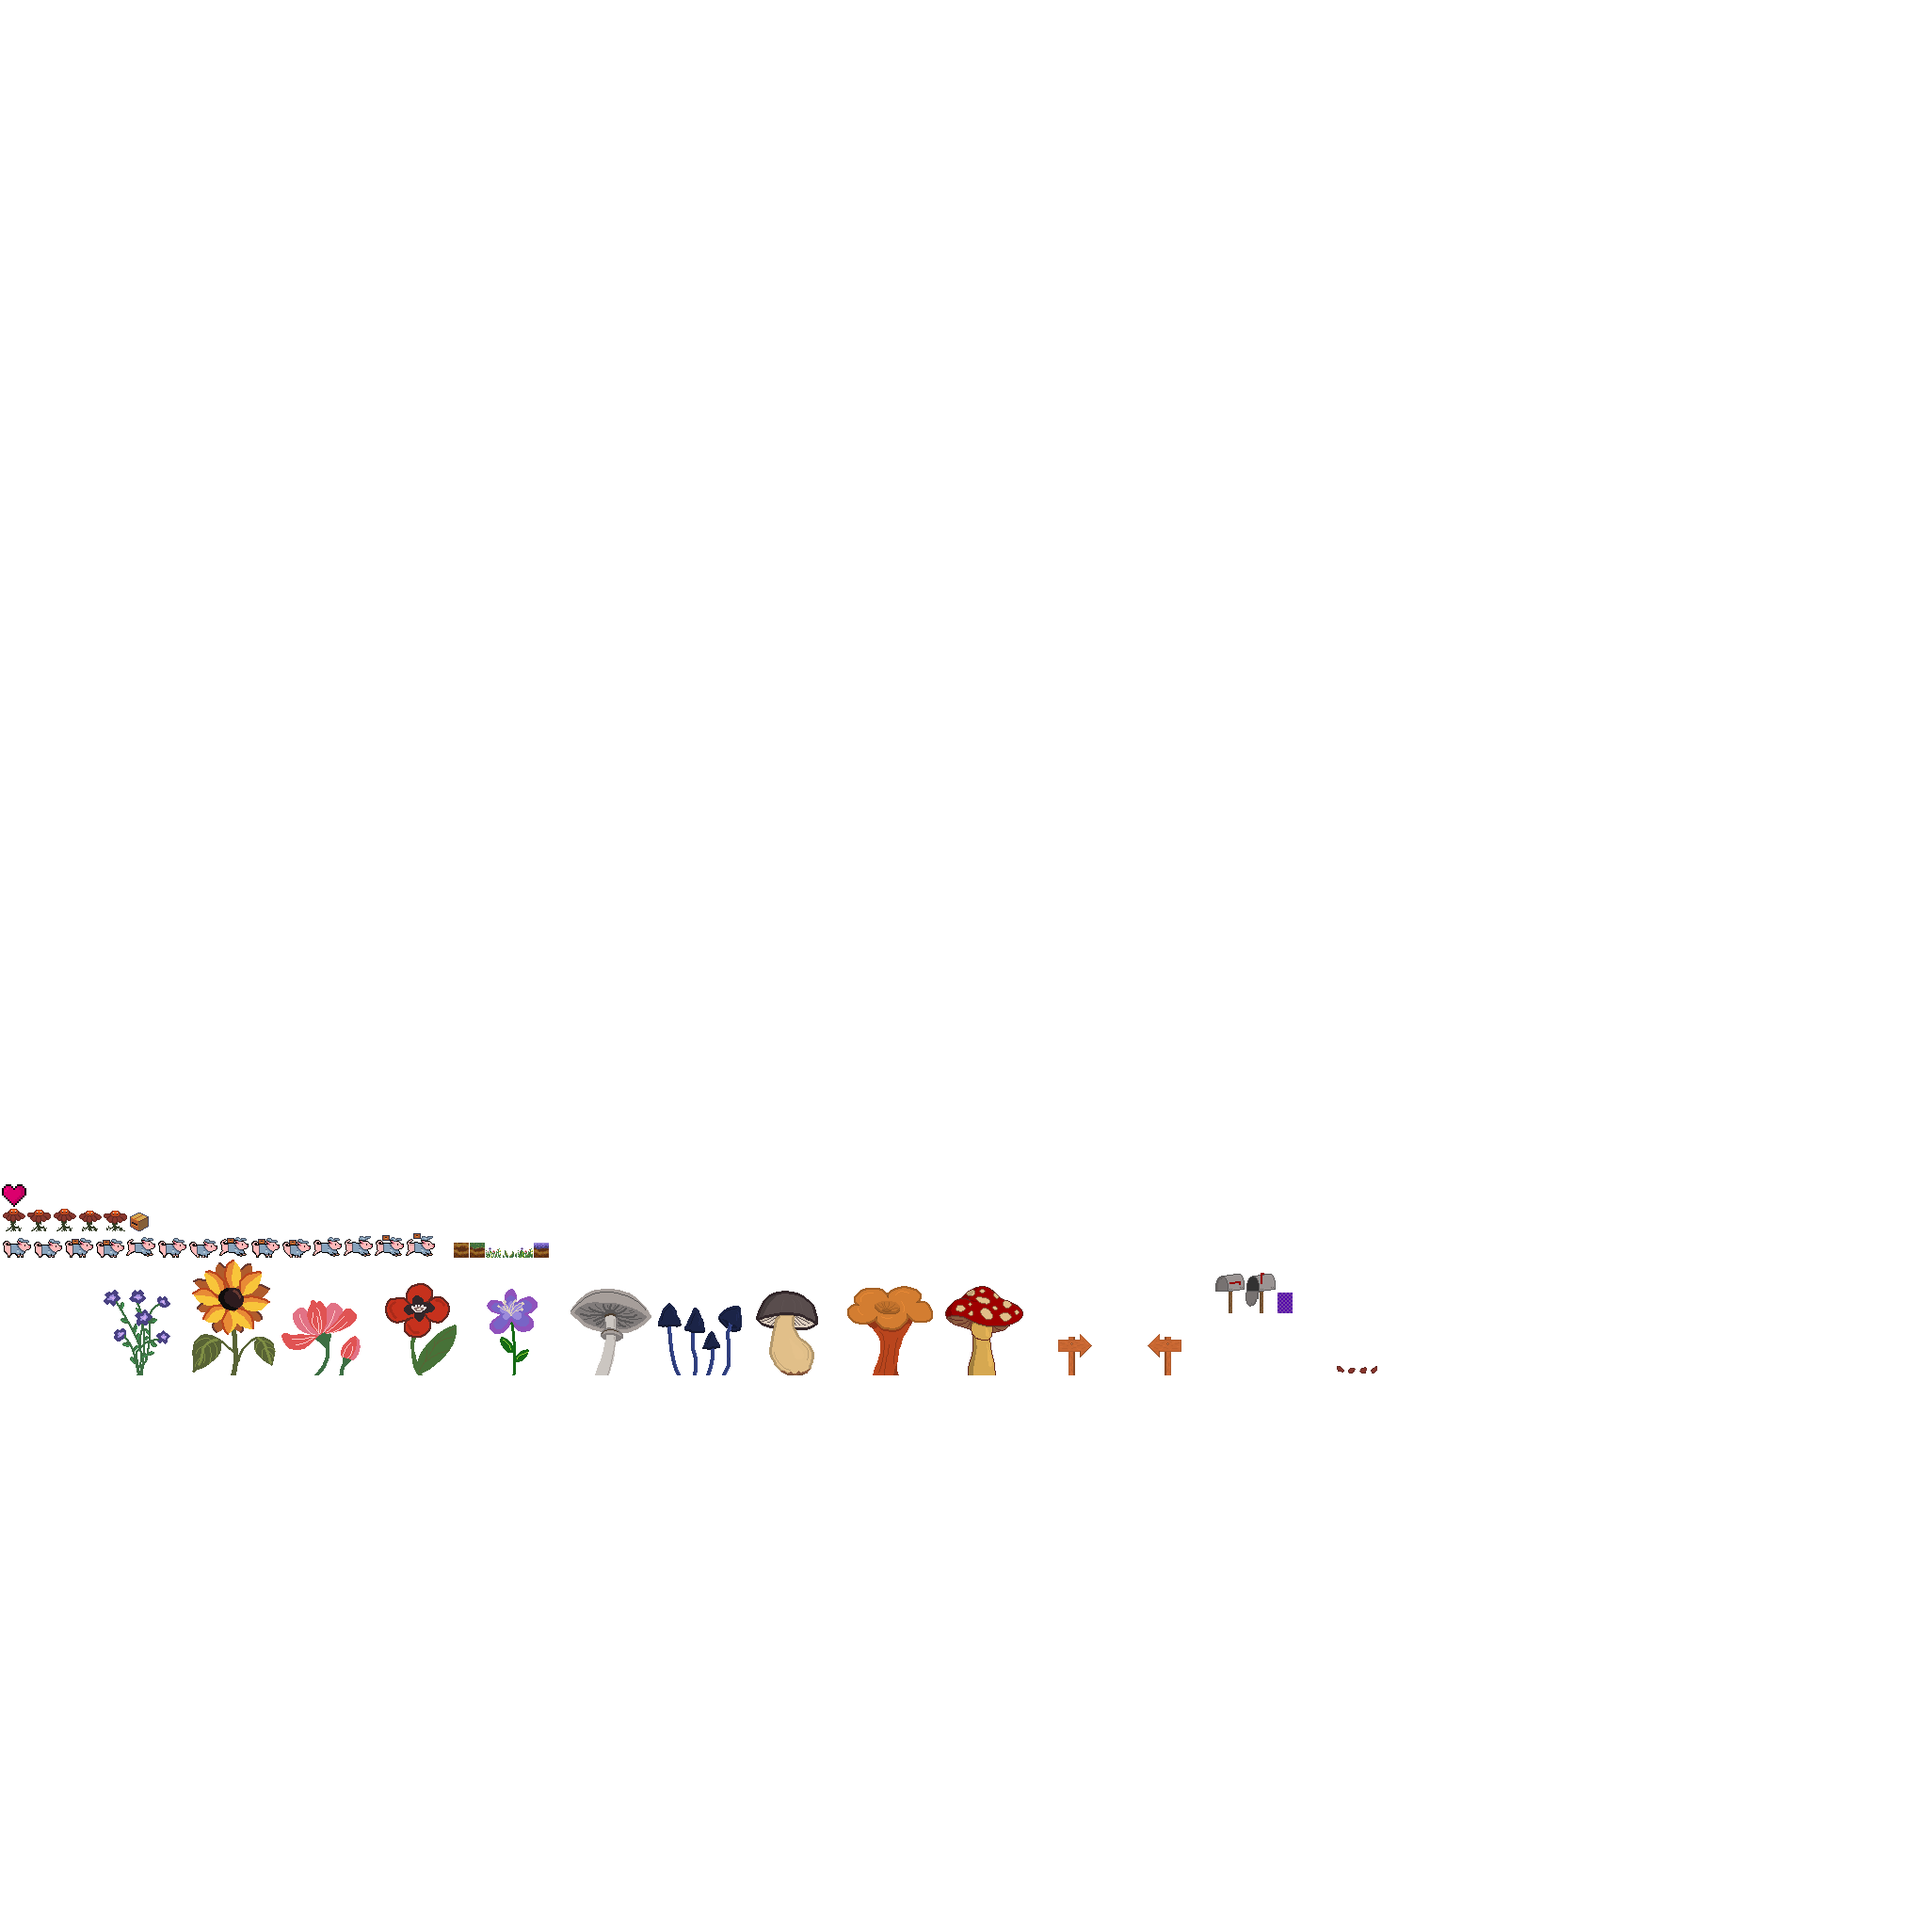
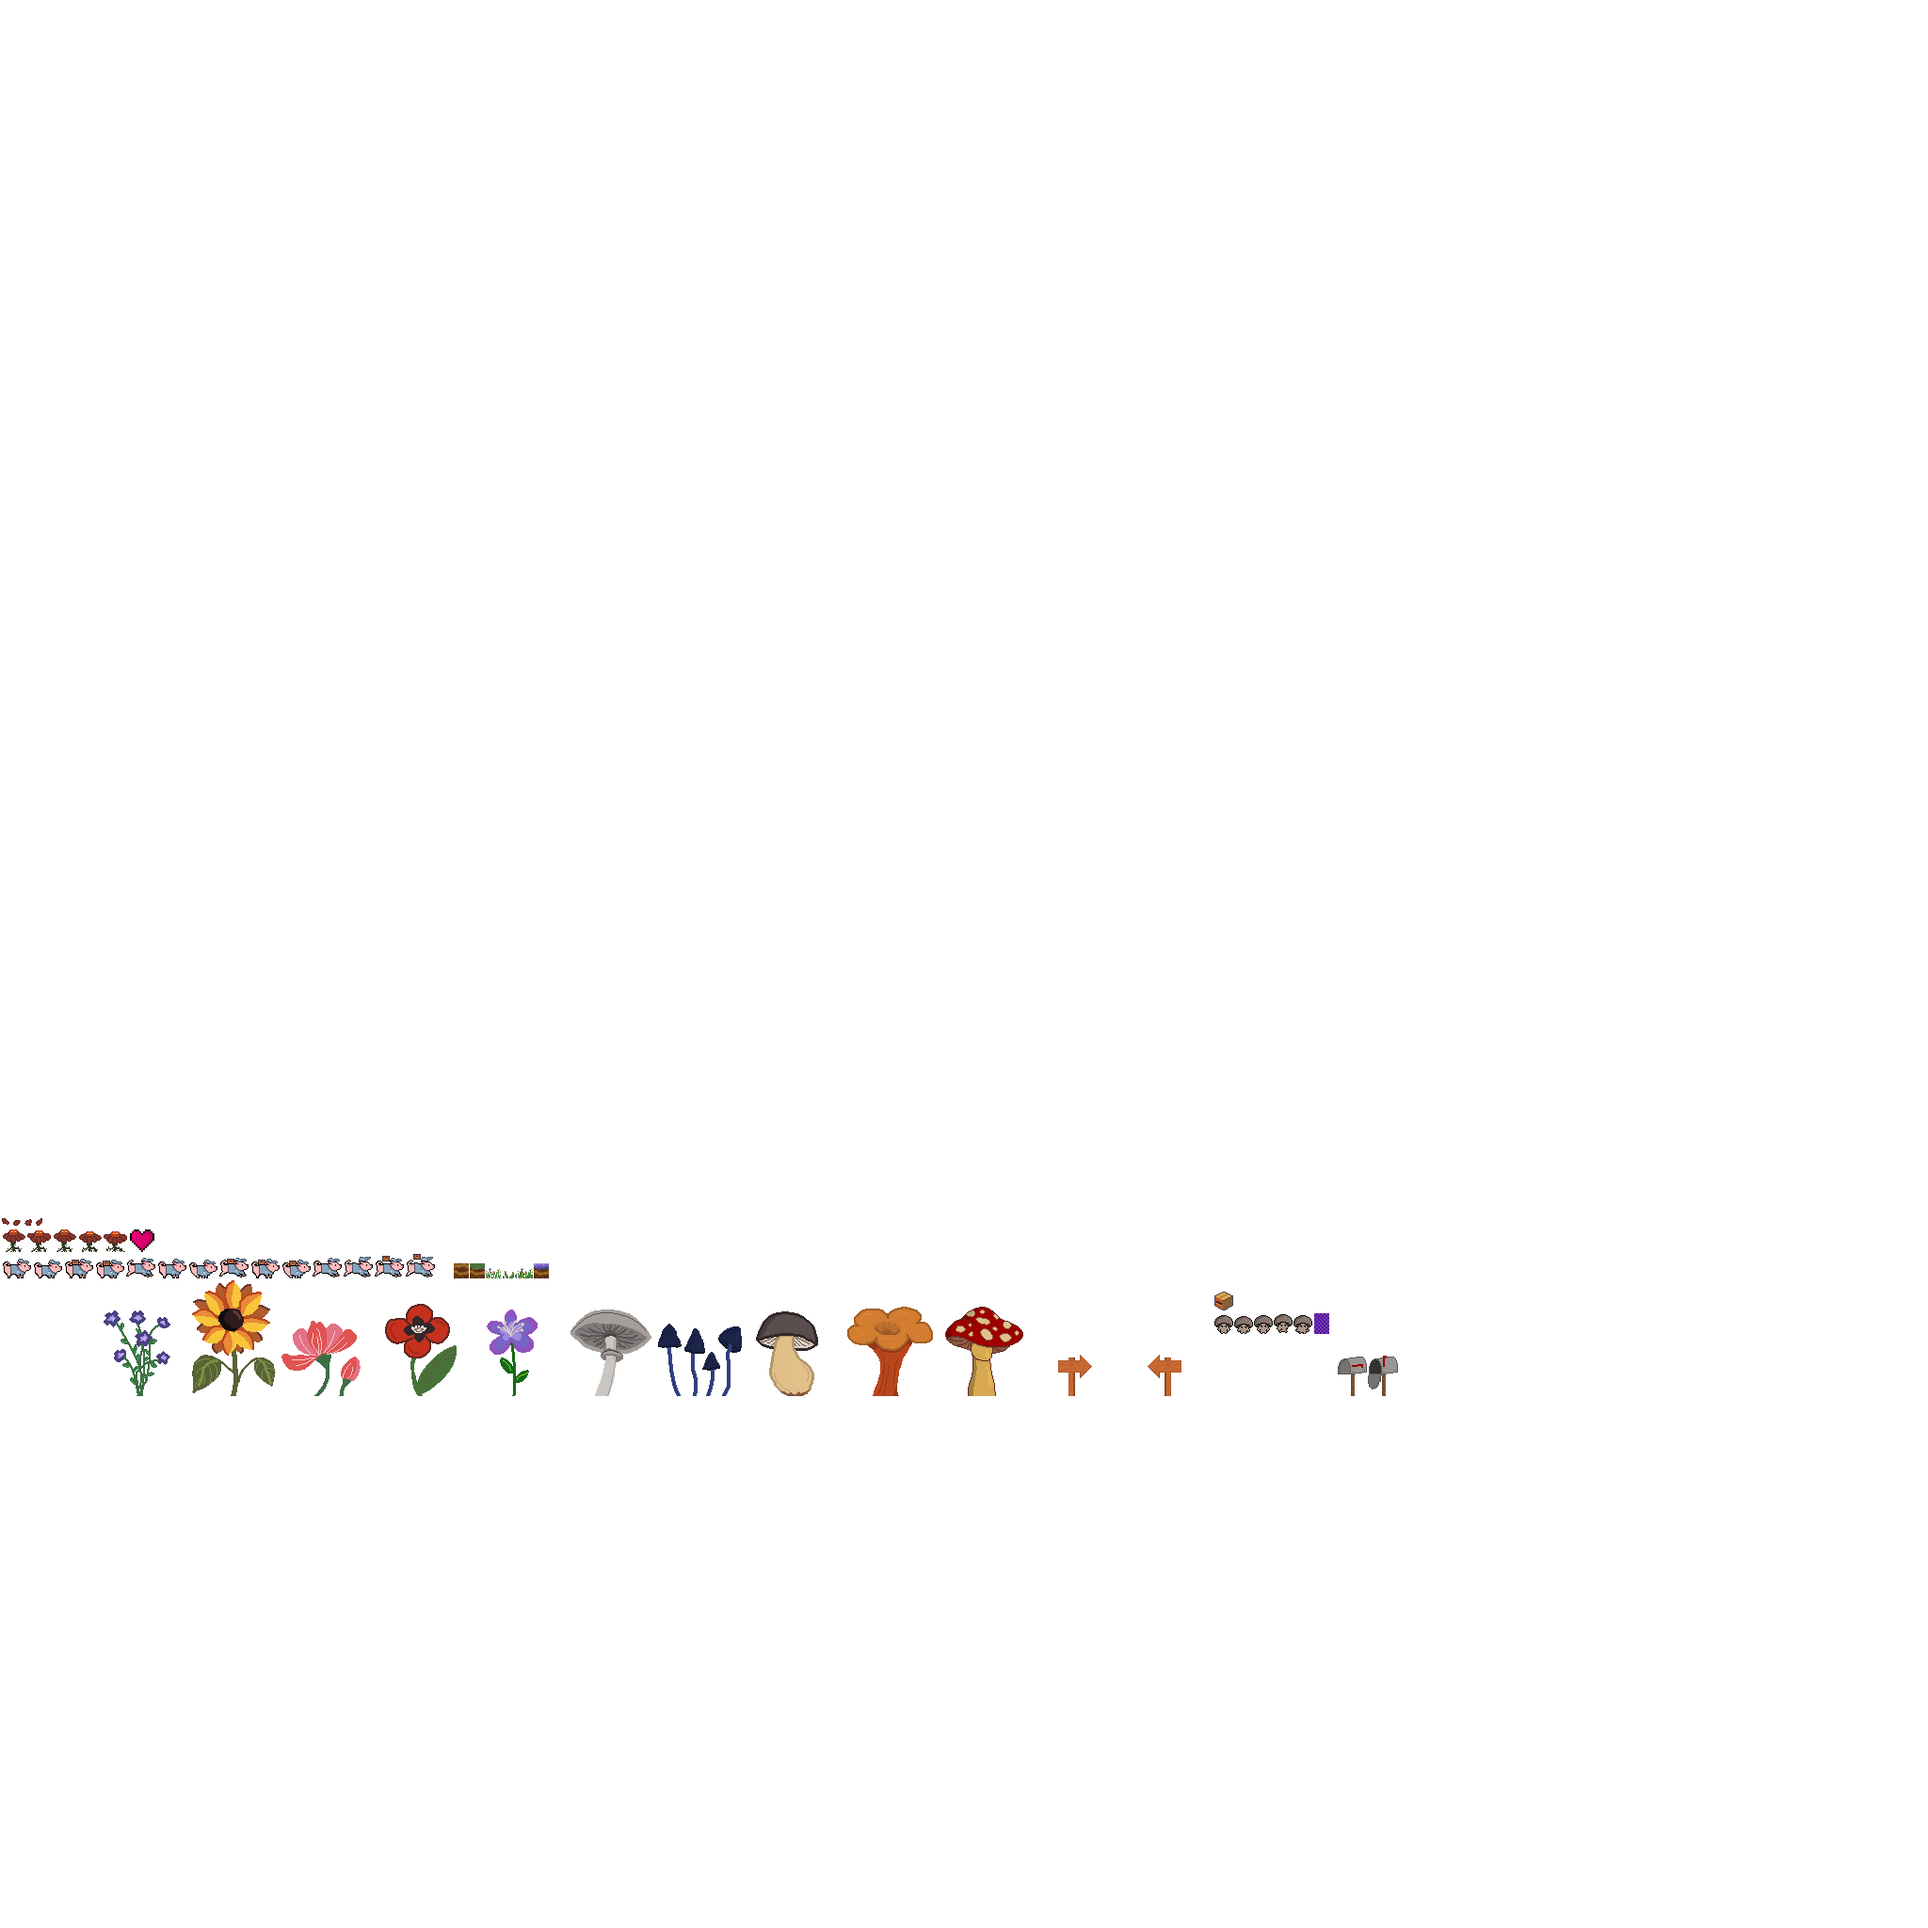
mushroom enemy

diff --git a/core/src/me/schmausio/deli/Entity.java b/core/src/me/schmausio/deli/Entity.java
@@ -27,7 +27,7 @@ public class Entity
 
    boolean flip = false;
 
-   boolean pack = true;
+   static boolean pack = true;
 
    // combined value of the chunk
    public int origin_chunk = -1;
@@ -240,6 +240,7 @@ public class Entity
          }
          break;
          case ENEMY_FLOWER:
+         case ENEMY_MUSHROOM:
          {
             if (AI_check)
             {
@@ -274,6 +275,19 @@ public class Entity
                   wutz_life--;
                   if (wutz_life <= 0)
                   {
+                     if (!pack)
+                     {
+                        for (int i = 0; i < World.list_entities.size; i++)
+                        {
+                           if (World.list_entities.get(i).type == EntityType.BOX)
+                           {
+                              World.list_entity_index_remove.add(i);
+                              World.list_entities.get(i).dead = true;
+                              break;
+                           }
+                        }
+                        pack = true;
+                     }
                      World.player.posx = check_point_x;
                      World.player.posy = check_point_y;
                      wutz_life = 3;
@@ -430,6 +444,7 @@ public class Entity
          break;
          case ENEMY_FLOWER:
          case PARTICLE_FLOWER:
+         case ENEMY_MUSHROOM:
          {
             TextureRegion reg = Res.get_frame(anim_time, anim, flip);
             Main.batch.draw(reg, px - reg.getRegionWidth() / 2f, py);
@@ -458,6 +473,8 @@ public class Entity
       PARTICLE_FLOWER(true, false, true),
       POSTBOX(false, false, false),
       COLLECT_BOX(false, false, false),
+
+      ENEMY_MUSHROOM(true, true, false),
       ;
 
       public final boolean gravity_affected;
@@ -489,6 +506,9 @@ public class Entity
             case PARTICLE_FLOWER:
                ret = Config.CONF.WALK_SPEED_PARTICLE_FLOWER.value;
                break;
+            case ENEMY_MUSHROOM:
+               ret = Config.CONF.WALK_SPEED_FLOWER.value + 20;
+               break;
          }
          return ret;
       }
@@ -499,10 +519,13 @@ public class Entity
          switch (this)
          {
             case PLAYER:
-               ret = ent.pack ? Anim.PIG_IDLE_PACK : Anim.PIG_IDLE;
+               ret = Entity.pack ? Anim.PIG_IDLE_PACK : Anim.PIG_IDLE;
                break;
             case ENEMY_FLOWER:
                ret = Anim.ENEMY_FLOWER_IDLE;
+               break;
+            case ENEMY_MUSHROOM:
+               ret = Anim.ENEMY_MUSHROOM_IDLE;
                break;
          }
          return ret;
@@ -518,6 +541,9 @@ public class Entity
                break;
             case ENEMY_FLOWER:
                ret = Anim.ENEMY_FLOWER_RUN;
+               break;
+            case ENEMY_MUSHROOM:
+               ret = Anim.ENEMY_MUSHROOM_RUN;
                break;
          }
          return ret;

diff --git a/core/src/me/schmausio/deli/Anim.java b/core/src/me/schmausio/deli/Anim.java
@@ -12,11 +12,13 @@ public enum Anim
    PIG_FALL(2, 0.1f, -1, true, 0, 1),
    PIG_FALL_PACK(3, 0.1f, -1, true, 0, 1),
 
-   ENEMY_FLOWER_IDLE(2, 0.2f, -1, false, 0,1),
-   ENEMY_FLOWER_RUN(3, 0.15f, -1, false, 0,1,2),
+   ENEMY_FLOWER_IDLE(2, 0.2f, -1, false, 0, 1),
+   ENEMY_FLOWER_RUN(3, 0.15f, -1, false, 0, 1, 2),
 
-   PARTICLE_FLOWER(4, 0.08f, -1, false, 0,1,2,3,2,1),
+   PARTICLE_FLOWER(4, 0.08f, -1, false, 0, 1, 2, 3, 2, 1),
 
+   ENEMY_MUSHROOM_IDLE(2, 0.2f, -1, false, 0, 1),
+   ENEMY_MUSHROOM_RUN(3, 0.15f, -1, true, 0, 1, 2, 1),
    ;
    public static float[] returner = new float[3];
    public final int keyframe, num_frames; // number of individual frames, may appear more than once in anim

diff --git a/core/src/me/schmausio/deli/Res.java b/core/src/me/schmausio/deli/Res.java
@@ -21,6 +21,7 @@ public enum Res
    DECORATION(Deco.values().length, 98, 123),
    HEART(),
    POSTBOX(2, 32, 43),
+   ENEMY_MUSHROOM(5, 20, 23),
    ;
 
    static final Array<Anim> load_queue = new Array<Anim>();
@@ -95,6 +96,11 @@ public enum Res
 
       load_queue.add(Anim.PARTICLE_FLOWER);
       load_anims(PARTICLE_FLOWER.region, PARTICLE_FLOWER.sheet_width, PARTICLE_FLOWER.sheet_height, 0);
+      load_queue.clear();
+
+      load_queue.add(Anim.ENEMY_MUSHROOM_IDLE);
+      load_queue.add(Anim.ENEMY_MUSHROOM_RUN);
+      load_anims(ENEMY_MUSHROOM.region, ENEMY_MUSHROOM.sheet_width, ENEMY_MUSHROOM.sheet_height, 0);
       load_queue.clear();
    }
 

diff --git a/core/src/me/schmausio/deli/Chunk.java b/core/src/me/schmausio/deli/Chunk.java
@@ -62,6 +62,13 @@ public class Chunk
                World.list_entities.add(entity);
             }
             break;
+            case MUSHROOM:
+            {
+               Entity entity = new Entity(px, py, Entity.EntityType.ENEMY_MUSHROOM);
+               entity.origin_chunk = combined_pos;
+               World.list_entities.add(entity);
+            }
+            break;
          }
       }
    }
@@ -210,6 +217,8 @@ public class Chunk
 
       POSTBOX,
       COLLECT_BOX,
+
+      MUSHROOM,
       ;
 
       public static Chunk_Object safe_ord(int ordinal)
